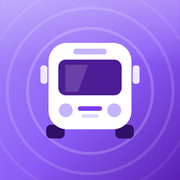
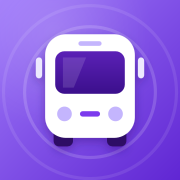
Icones do app redesenhados em HD

diff --git a/index.html b/index.html
@@ -221,7 +221,7 @@
       </svg>
       <h2 id="avisoTccTitulo">Projeto de TCC</h2>
       <p>O JotaBus é um protótipo desenvolvido para o Trabalho de Conclusão de Curso de Ciência da Computação da FAM.</p>
-      <p class="cartao__dica">Desenvolvido por João Pedro Brito Almeida da Silva. Os dados dos ônibus vêm da SPTrans (Olho Vivo) e podem ter atrasos.</p>
+      <p class="cartao__dica">Desenvolvido por João Pedro Brito Almeida da Silva.</p>
       <label class="cartao__marcar"><input id="avisoTccOcultar" type="checkbox"> Não exibir novamente</label>
       <div class="cartao__botoes">
         <button id="avisoTccOk" class="botao-principal" type="button">OK</button>

diff --git a/sw.js b/sw.js
@@ -1,7 +1,7 @@
 // Service worker mínimo: guarda a "casca" do app para abrir mais rápido.
 // Nunca guarda chamadas à API (/api) nem os blocos do mapa.
 // v2: guarda todos os scripts do app, para a tela "sem internet" aparecer mesmo offline.
-const CACHE = "jotabus-casca-v4";   // trocar a versão força o celular a baixar a casca nova
+const CACHE = "jotabus-casca-v5";   // trocar a versão força o celular a baixar a casca nova
 const CASCA = [
   "./", "index.html", "css/styles.css", "js/config.js", "js/app.js",
   "js/paradas.js", "js/painel.js", "js/busca.js",
